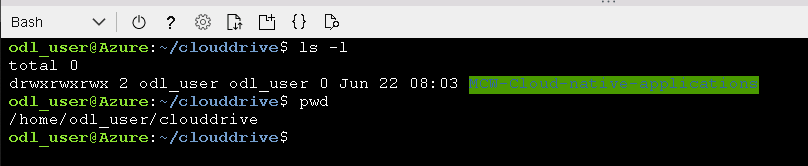
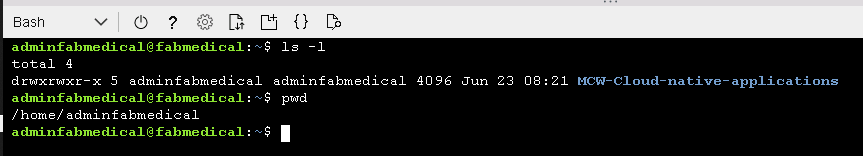
update png

diff --git a/hol-minimize-guide/Before the HOL - Cloud-native applications.md b/hol-minimize-guide/Before the HOL - Cloud-native applications.md
@@ -145,21 +145,23 @@ Your build agent is ready with the Docker engine running correctly.
 
 ### Task 4: Download Starter Files
 
-In this task, you use `git` to copy the lab content to your cloud shell so that the lab starter files will be available to use.
+In this task, you use `git` to copy the lab content to the **"Build Agent VM"** so that the lab starter files will be available to use.
 
 > **Note**: If you don't have a cloud shell available, refer back to [Task 1: Setup Azure Cloud Shell](#task-1-setup-azure-cloud-shell).
+
+> **Note**: If you are not able to connect to the Linux server, refer back to [Task 2: Connect securely to the build agent](#task-2-connect-securely-to-the-build-agent).
+
 
 1. Type the following command and press `<ENTER>`:
 
    ```bash
-   cd ~/clouddrive && git clone https://github.com/microsoft/MCW-Cloud-native-applications.git
+   git clone https://github.com/microsoft/MCW-Cloud-native-applications.git
    ```
-
-   > **Note**: If you do not have enough free space, you may need to remove extra files from your cloud shell environment.  Try running `azcopy jobs clean` to remove any `azcopy` jobs and data you do not need.
+ 
 
 2. The lab files download.
 
-   ![In this screenshot of a Bash window, git clone has been typed and run at the command prompt. The output from git clone is shown.](media/b4-2019-09-30_21-25-06.png "Bash Git Clone")
+   ![In this screenshot of a Bash window, git clone has been typed and run at the command prompt. The output from git clone is shown.](media/add-image07.png "Bash Git Clone")
 
 3. We do not need the `.git` folder, and later steps will be less complex if we remove it. Run this command:
 
@@ -167,13 +169,13 @@ In this task, you use `git` to copy the lab content to your cloud shell so that 
    rm -rf MCW-Cloud-native-applications/.git
    ```
 
-4. Starter files should cloned in the cloudshell and you can find the folder structure as below
+4. Starter files should cloned in the Linux console and you can find the folder structure as below
       ![Cloned folder.](media/add-image03.png "clone folder in root")
    
-   You will need to move to the correct folder to continute
+   Have a look on the location of starter files by copy below command 
 
    ```bash
-   cd ~/clouddrive/MCW-Cloud-native-applications/Hands-on\ lab/lab-files/developer/
+   cd /home/adminfabmedical/MCW-Cloud-native-applications/Hands-on\ lab/lab-files/developer/
    ```
    
       ![Cloned folder.](media/add-image04.png "relative path")
